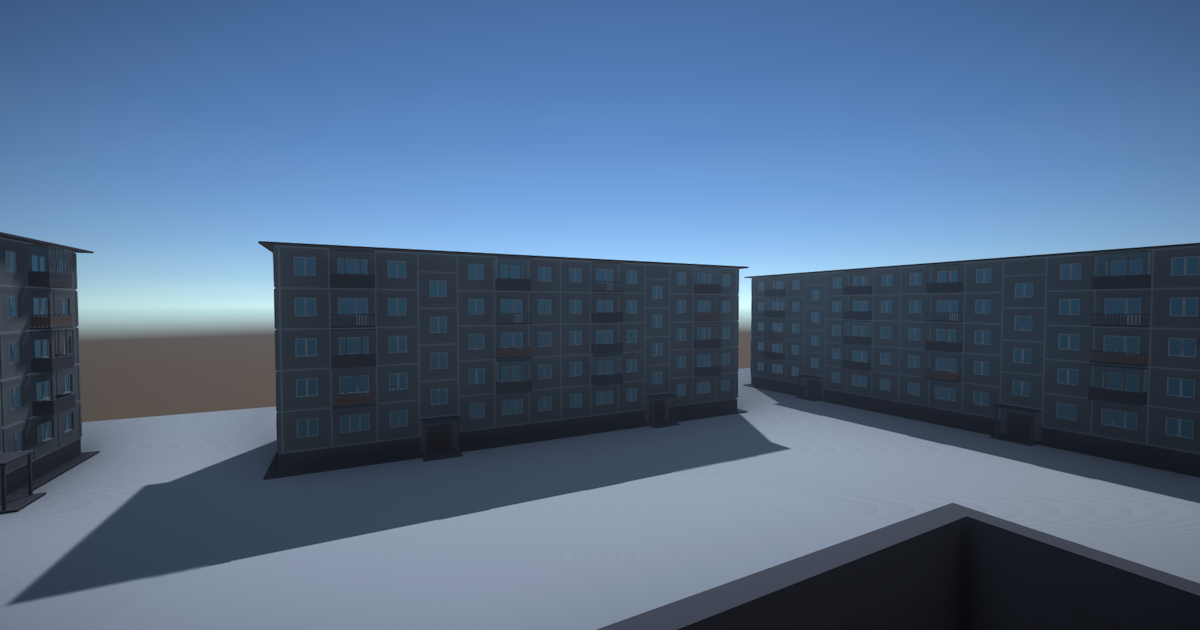
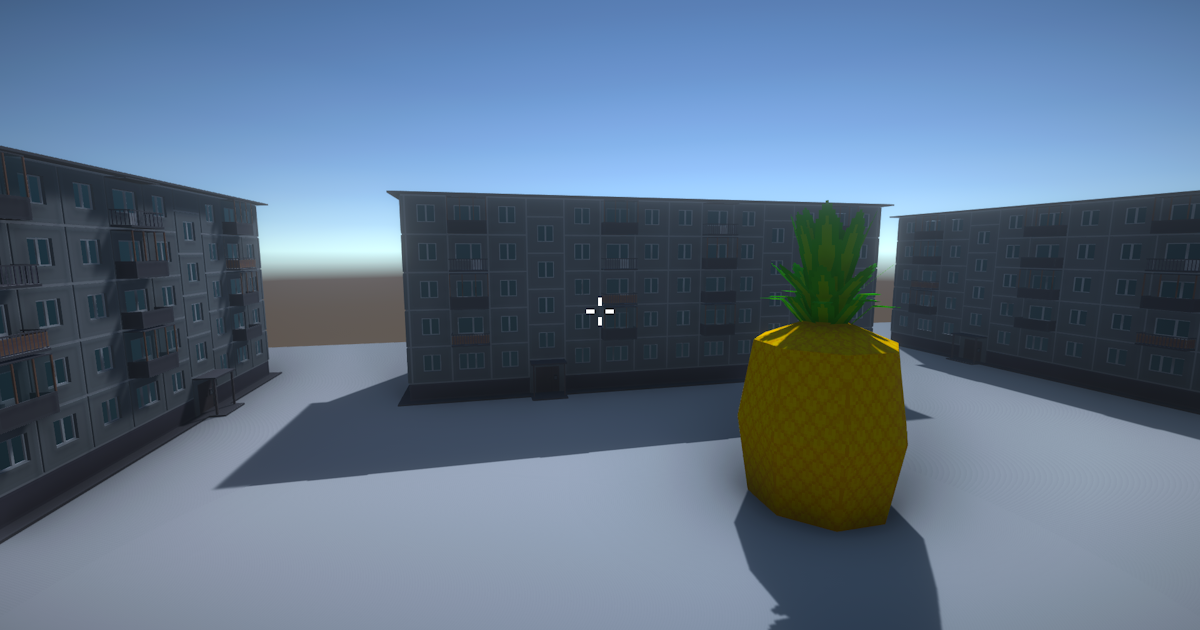
Add files via upload

diff --git a/games/itsautumn/index.html b/games/itsautumn/index.html
@@ -55,9 +55,9 @@
 							Это версия Dev! В ней нет всех механик, интерактива и т.д.
 						</div>
 						<div class="game_version">
-							Версия: Dev 0.0.0.3 <br>
-							Дата обновления: 10 декабря 2023 <br>
-							Размер: 106 Мб <br>
+							Версия: Dev 0.0.0.4 <br>
+							Дата обновления: 18 декабря 2023 <br>
+							Размер: 103 Мб <br>
 							Дата выхода: 25 ноября 2023
 						</div>
 					</div>
@@ -93,12 +93,27 @@
 						<img class="links_image" src="../../img/icon_windows.svg">
 						<div class="links_text"> Windows </div>
 					</a>
+					<a class="links_button black" href="https://www.dropbox.com/scl/fi/kz1z68r8j0f1lzy9iuaev/It-s-Autumn.apk?rlkey=6b7rv3v076z1gd1qwc0ijx90x&dl=1">
+						<img class="links_image" src="../../img/icon_android.svg">
+						<div class="links_text"> Android </div>
+					</a>
 				</section>
 				
 				<section class="section changelog">
 					<div>
 						<div class="ch_content title"> Изменения </div>
-						<div class="ch_content cur_ver"> Dev 0.0.0.3 </div>
+						<div class="ch_content cur_ver"> Dev 0.0.0.4 </div>
+						<div class="ch_content content">
+							Основное: <br>
+							• Добавлен порт под андроид <br>
+							• Добавлены звуки <br>
+							• Добавлена часть интерьера <br>
+							• Добавлена возможность поворачивать предметы <br>
+							• Добавлен гигантский ананас <br>
+							• Фиксы багов
+						</div>
+						
+						<div class="ch_content ver"> Dev 0.0.0.3 </div>
 						<div class="ch_content content">
 							Основное: <br>
 							• Добавлен подъезд <br>

diff --git a/en/games/itsautumn/index.html b/en/games/itsautumn/index.html
@@ -56,8 +56,8 @@
 						</div>
 						<div class="game_version">
 							Version: Dev 0.0.0.3 <br>
-							Update date: 10 December 2023 <br>
-							Size: 106 Mb <br>
+							Update date: 18 December 2023 <br>
+							Size: 103 Mb <br>
 							Release date: 25 November 2023
 						</div>
 					</div>
@@ -93,12 +93,27 @@
 						<img class="links_image" src="../../../img/icon_windows.svg">
 						<div class="links_text"> Windows </div>
 					</a>
+					<a class="links_button black" href="https://www.dropbox.com/scl/fi/kz1z68r8j0f1lzy9iuaev/It-s-Autumn.apk?rlkey=6b7rv3v076z1gd1qwc0ijx90x&dl=1">
+						<img class="links_image" src="../../../img/icon_android.svg">
+						<div class="links_text"> Android </div>
+					</a>
 				</section>
 				
 				<section class="section changelog">
 					<div>
 						<div class="ch_content title"> Changelog </div>
-						<div class="ch_content cur_ver"> Dev 0.0.0.3 </div>
+						<div class="ch_content cur_ver"> Dev 0.0.0.4 </div>
+						<div class="ch_content content">
+							Main: <br>
+							• Added android port <br>
+							• Added sounds <br>
+							• Added part of interior <br>
+							• Added the avility to rotate items <br>
+							• Added giant pineapple <br>
+							• Bug fixes
+						</div>
+						
+						<div class="ch_content ver"> Dev 0.0.0.3 </div>
 						<div class="ch_content content">
 							Main: <br>
 							• Added entrance <br>

diff --git a/index.html b/index.html
@@ -57,7 +57,7 @@
 						<div class="links_text"> Дискорд </div>
 					</a>
 				</section>
-			
+				
 				<section class="section">
 					<div class="section_main">
 						<div>
@@ -81,6 +81,20 @@
 						<a class="member_link itch_io" href="https://koteykathecat.itch.io/">
 							<img class="links_image scale" src="img/icon_itch_io.svg">
 						</a>
+					</div>
+				</section>
+				
+				<section class="section">
+					<div class="section_main">
+						<div>
+							<div class="name">
+								FoxPlane
+							</div>
+							<img class="member_avatar" src="img/avatar_foxplane_2d.svg">
+						</div>
+						<div class="member_description">
+							• 
+						</div>
 					</div>
 				</section>
 				
@@ -135,22 +149,6 @@
 						<a class="member_link discord" href="https://discord.gg/8Q6jpKCxb5">
 							<img class="links_image scale" src="img/icon_discord.svg">
 						</a>
-					</div>
-				</section>
-				
-				<div class="line"></div>
-				
-				<section class="section_no_bg">
-					<div class="foxplane">
-						<div>
-							<div class="name_foxplane">
-								FoxPlane
-							</div>
-							<img class="avatar_foxplane" src="img/avatar_foxplane_2d.svg">
-						</div>
-						<div class="description_foxplane">
-							• Пока Лисолетик...
-						</div>
 					</div>
 				</section>
 			</main>

diff --git a/en/index.html b/en/index.html
@@ -85,6 +85,19 @@
 				<section class="section">
 					<div>
 						<div class="name">
+							Foxplane
+						</div>
+						<img class="member_avatar" src="../img/avatar_foxplane_2d.svg">
+					</div>
+					<div class="member_description">
+						•
+					</div>
+					<div class="member_links"><div class="empty"></div></div>
+				</section>
+				
+				<section class="section">
+					<div>
+						<div class="name">
 							Skoow
 						</div>
 						<img class="member_avatar" src="../img/avatar_skoow_2d.svg">
@@ -131,22 +144,6 @@
 						<a class="member_link discord" href="https://discord.gg/8Q6jpKCxb5">
 							<img class="links_image" src="../img/icon_discord.svg">
 						</a>
-					</div>
-				</section>
-				
-				<div class="line"></div>
-				
-				<section class="section_no_bg">
-					<div class="foxplane">
-						<div>
-							<div class="name_foxplane">
-								FoxPlane
-							</div>
-							<img class="avatar_foxplane" src="../img/avatar_foxplane_2d.svg">
-						</div>
-						<div class="description_foxplane">
-							• Goodbye Foxplane...
-						</div>
 					</div>
 				</section>
 			</main>

diff --git a/games/index.html b/games/index.html
@@ -59,7 +59,7 @@
 								Описание 🥸
 							</div>
 							<div class="game_version">
-								Версия: Dev 0.0.0.3
+								Версия: Dev 0.0.0.4
 							</div>
 							<a class="game_link download" href="itsautumn">
 								<img class="links_image scale_games" src="../img/icon_games.svg">

diff --git a/en/games/index.html b/en/games/index.html
@@ -59,7 +59,7 @@
 								Description 🥸
 							</div>
 							<div class="game_version">
-								Version: Dev 0.0.0.3
+								Version: Dev 0.0.0.4
 							</div>
 							<a class="game_link download" href="itsautumn">
 								<img class="links_image scale_games" src="../../img/icon_games.svg">
